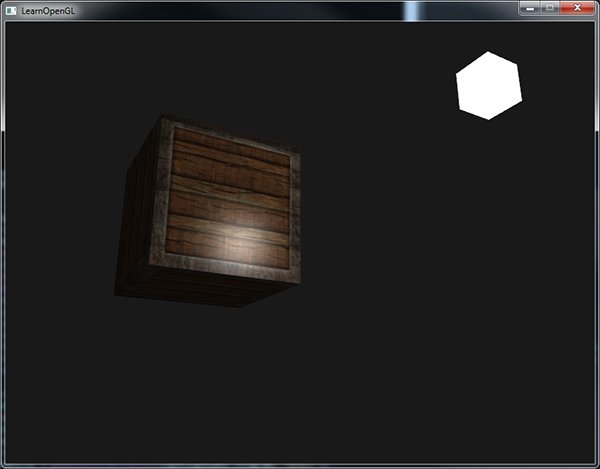
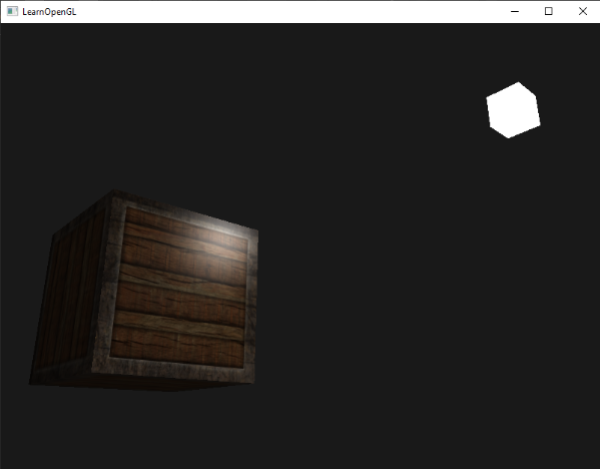
proofread 02 Lighting/03 Materials.md, 译文中更新了图片，与最新版原文保持一致。（新版图片高光位置看起来更加符合直觉）。

Changed region(s): [[0.0, 0.0, 1.0, 1.0], [0.18, 0.2687, 0.51, 0.806], [0.75, 0.0896, 0.9, 0.2985]]

diff --git a/docs/02 Lighting/04 Lighting maps.md b/docs/02 Lighting/04 Lighting maps.md
@@ -4,7 +4,7 @@
       ---|---
 作者     | JoeyDeVries
 翻译     | Krasjet
-校对     | 暂未校对
+校对     | [AoZhang](https://github.com/SuperAoao)
 
 在[上一节](03 Materials.md)中，我们讨论了让每个物体都拥有自己独特的材质从而对光照做出不同的反应的方法。这样子能够很容易在一个光照的场景中给每个物体一个独特的外观，但是这仍不能对一个物体的视觉输出提供足够多的灵活性。
 
@@ -16,7 +16,7 @@
 
 我们希望通过某种方式对物体的每个片段单独设置漫反射颜色。有能够让我们根据片段在物体上的位置来获取颜色值的系统吗？
 
-这可能听起来很熟悉，而且事实上这个系统我们已经使用很长时间了。这听起来很像在[之前](../01 Getting started/06 Textures.md)教程中详细讨论过的**纹理**，而这基本就是这样：一个纹理。我们仅仅是对同样的原理使用了不同的名字：其实都是使用一张覆盖物体的图像，让我们能够逐片段索引其独立的颜色值。在光照场景中，它通常叫做一个<def>漫反射贴图</def>(Diffuse Map)（3D艺术家通常都这么叫它），它是一个表现了物体所有的漫反射颜色的纹理图像。
+这可能听起来很熟悉，而且事实上这个系统我们已经使用很长时间了。这听起来很像在[之前](../01 Getting started/06 Textures.md)教程中详细讨论过的**纹理**，而这基本就是这样：一个纹理。我们仅仅是对同样的原理使用了不同的名字：其实都是使用一张覆盖物体的图像，让我们能够逐片段索引其独立的颜色值。在光照场景中，它通常叫做一个<def>漫反射贴图</def>(Diffuse Map)（在PBR之前3D艺术家通常都这么叫它），它是一个表现了物体所有的漫反射颜色的纹理图像。
 
 为了演示漫反射贴图，我们将会使用[下面的图片](../img/02/04/container2.png)，它是一个有钢边框的木箱：
 

diff --git a/docs/02 Lighting/03 Materials.md b/docs/02 Lighting/03 Materials.md
@@ -4,7 +4,7 @@
       ---|---
 作者     | JoeyDeVries
 翻译     | Krasjet
-校对     | 暂未校对
+校对     | [AoZhang](https://github.com/SuperAoao)
 
 在现实世界里，每个物体会对光产生不同的反应。比如，钢制物体看起来通常会比陶土花瓶更闪闪发光，一个木头箱子也不会与一个钢制箱子反射同样程度的光。有些物体反射光的时候不会有太多的散射(Scatter)，因而产生较小的高光点，而有些物体则会散射很多，产生一个有着更大半径的高光点。如果我们想要在OpenGL中模拟多种类型的物体，我们必须针对每种表面定义不同的<def>材质</def>(Material)属性。
 
